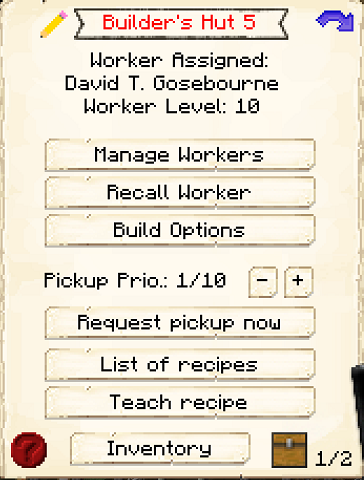
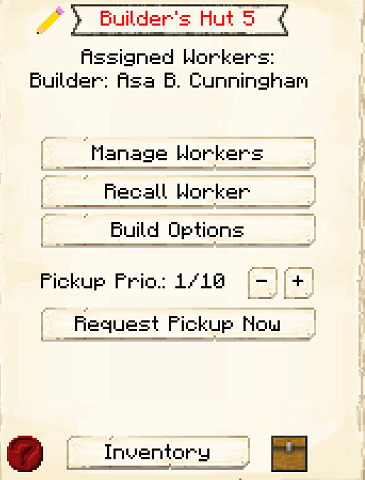
Updated Builder's Hut GUI info (#749)
* Updated Builder's Hut GUI info

Updated the Builders's Hut to show the 6 new tabs, with image updates

Also made changes to gui.yml to
remove mention of worker level.
Renamed Delivery Priority to Pickup Priority.
Removed List of Recipes and Teach Recipe as it is now in a tab.

* Minor proofreading

diff --git a/source/buildings/builder.md b/source/buildings/builder.md
@@ -23,7 +23,7 @@ layout: default
 
 Before you choose a place to build the Builder's Hut, take into account the distances among the other possible building sites and obstacles like water, trees, caves, mountains, lava sources, etc. After you have selected a place for the hut, you have to craft the Builder’s Hut block and place it with your [build tool](../items/buildtool). Once the hut is placed, the Builder will be automatically assigned (or you can manually assign one with the best [Traits](../systems/worker) for a Builder if you changed this in the settings tab in the [Town Hall's GUI](../../source/buildings/townhall).
 
-Now you will have to issue the build assignment so the Builder can build their own hut first. The Builder will ask for the materials they need. Make sure to check the [Resource Scroll](../../source/items/resourcescroll) or the second page of the Builder's Hut GUI to see what materials the Builder is requesting for any build/upgrade. Any material in the list that is still missing will be in red letters.
+Now you will have to issue the build assignment so the Builder can build their own hut first. The Builder will ask for the materials they need. Make sure to check the [Resource Scroll](../../source/items/resourcescroll) or the Required Resources tab of the Builder's Hut GUI to see what materials the Builder is requesting for any build/upgrade. Any material in the list that is still missing will be in red letters.
 
 Once the Builder's Hut is built you can now build anything you want, like worker huts, buildings, decorations, or your own schematics.
 
@@ -34,7 +34,7 @@ Once the Builder's Hut is built you can now build anything you want, like worker
 <div class="row">
   <div class="col">
     
-  When accessing the Builder’s Hut block by right-clicking on it, you will see a GUI with different options:
+  When accessing the Builder’s Hut block by right-clicking on it, you will see a GUI with different options.  You start on the main tab <img src="../../assets/images/gui/guildtab1.png" class="img-fluid mx-auto" alt="Main Tab">:
 
   <br>
   <div class="row">
@@ -51,7 +51,7 @@ Once the Builder's Hut is built you can now build anything you want, like worker
     </div>
   </div>
   <br>
-      <p>By pressing the arrow button in the top right corner of the GUI, you will be taken to page 2 of the GUI where you will find the following:</p>
+      <p>The second tab of the GUI is Minimum Stock <img src="../../assets/images/gui/guildtab2.png" class="img-fluid mx-auto" alt="Minimum Stock">: </p>
   <br>
   <div class="row">
     <div class="col-sm-12 col-md">
@@ -59,13 +59,13 @@ Once the Builder's Hut is built you can now build anything you want, like worker
     </div>
     <div class="col-sm-12 col-md">
     <ul>
-      <li><strong>Required Resources:</strong> These are the resources that the Builder will need for the build order they are currently working on. This amount will change as they place blocks and will show <strong>only</strong> what blocks the Builder still needs to place. The blocks in red are the ones neither you nor the Builder has in their inventory.</li>
+        <li><strong> Add: </strong> Use this button to tell the Builder's Hut to keep a minimum stock on hand. Set items will be displayed above the button.</li>
     </ul>
     </div>
   </div>
   <br>
    <div class="col-sm-12 col-md"><br>
-      <p>Page 3 of the GUI:</p>
+      <p>The third tab of the GUI is Settings <img src="../../assets/images/gui/guildtab3.png" class="img-fluid mx-auto" alt="Settings">: </p>
     </div>
   <br>
   <div class="row">
@@ -76,24 +76,60 @@ Once the Builder's Hut is built you can now build anything you want, like worker
   <div class="col-sm-12 col-md">
     <ul>
       <li><strong>Builder Mode:</strong> Here you can set your Builder to Manual or Automatic mode (Automatic by default). In Automatic, the builder chooses which build order they'll complete next themselves (based on the order of the build requests in the <a href="../../source/buildings/townhall">Town Hall</a> GUI's <a href="#workorders">work orders</a> tab). In Manual, you choose their next build order yourself by clicking Select next to the build order's name.</li>
+      <li><strong>Fill Block:</strong> Here you can select what block the builder uses to fill in holes/gaps in the schematic.  The default is the dirt block.
     </ul>
   </div>
   </div>
+
   <br>
    <div class="col-sm-12 col-md"><br>
-      <p>Page 4 of the GUI:</p>
+      <p>The fourth tab of the GUI is Crafting Recipes <img src="../../assets/images/gui/guildtab4.png" class="img-fluid mx-auto" alt="Crafting Recipes">.  
+      <br>Here you can see all the recipes you have taught this hut and can remove them: </p>
     </div>
   <br>
   <div class="row">
     <div class="col-sm-12 col-md">
-      <img src="../../assets/images/gui/minstockgui.png" class="img-fluid mx-auto" alt="Builder GUI 4">
+      <img src="../../assets/images/gui/buildergui4.png" class="img-fluid mx-auto" alt="Builder GUI 4">
     </div>
   <br>
   <div class="col-sm-12 col-md">
     <ul>
-        <li><strong> Minimum Stock: </strong> Use this button to tell the Builder's Hut to keep a minimum stock on hand. Set items will be displayed above the button.</li>
+      <li><strong>Teach Recipe:</strong> When clicking teach recipe, it opens a crafting grid which allows you to teach this hut recipes (not the worker).</li>
     </ul>
   </div>
+  <br>
+   <div class="col-sm-12 col-md"><br>
+      <p>The fifth tab of the GUI is Work Orders <img src="../../assets/images/gui/guildtab5.png" class="img-fluid mx-auto" alt="Work Orders">.  
+      <br>This page shows you what buildings have been assigned to this builder, along with the distance away from the builder's hut.  You can cancel the work order here.
+      </p>
+      </div>
+  <br>
+  <div class="row">
+    <div class="col-sm-12 col-md">
+      <img src="../../assets/images/gui/buildergui5.png" class="img-fluid mx-auto" alt="Builder GUI 5">
+    </div>
+  <br>
+  <div class="col-sm-12 col-md">
+  </div>
+  </div>
+  <br>
+   <div class="col-sm-12 col-md"><br>
+      <p>The sixth tab of the GUI is Required Resources <img src="../../assets/images/gui/guildtab6.png" class="img-fluid mx-auto" alt="Required Resources">. 
+      <br>These are the resources that the Builder will need for the build order they are currently working on. </p>
+    </div>
+  <br>
+  <div class="row">
+    <div class="col-sm-12 col-md">
+      <img src="../../assets/images/gui/buildergui6.png" class="img-fluid mx-auto" alt="Builder GUI 6">
+    </div>
+  <br>
+  <div class="col-sm-12 col-md">
+    <ul>
+      <li><strong>Current project</strong> The top line tells you which building is being worked on and its level.</li>
+      <li><strong>Step</strong> What step of the project the builder is on.</li>
+      <li><strong>Supplied %/ Used %</strong> How much of the needed resources are in the builder hut inventory, and how many of the resources have been placed.</li>
+      <li><strong>Item</strong> Each needed item is displayed, along with how many of that item is in inventory, and how many are needed.  These amounts will change as they place blocks and will show only what blocks the Builder still needs to place. The block in black are in their inventory.  The blocks in red are the ones neither you nor the Builder has in their inventory.  The blocks in green are ones you have in inventory but the builder needs.  Clicking the up arrow next to the item will automatically remove that item from your inventory and place it into the builder's.</li>
+    </ul>
   </div>
    
   <br>
